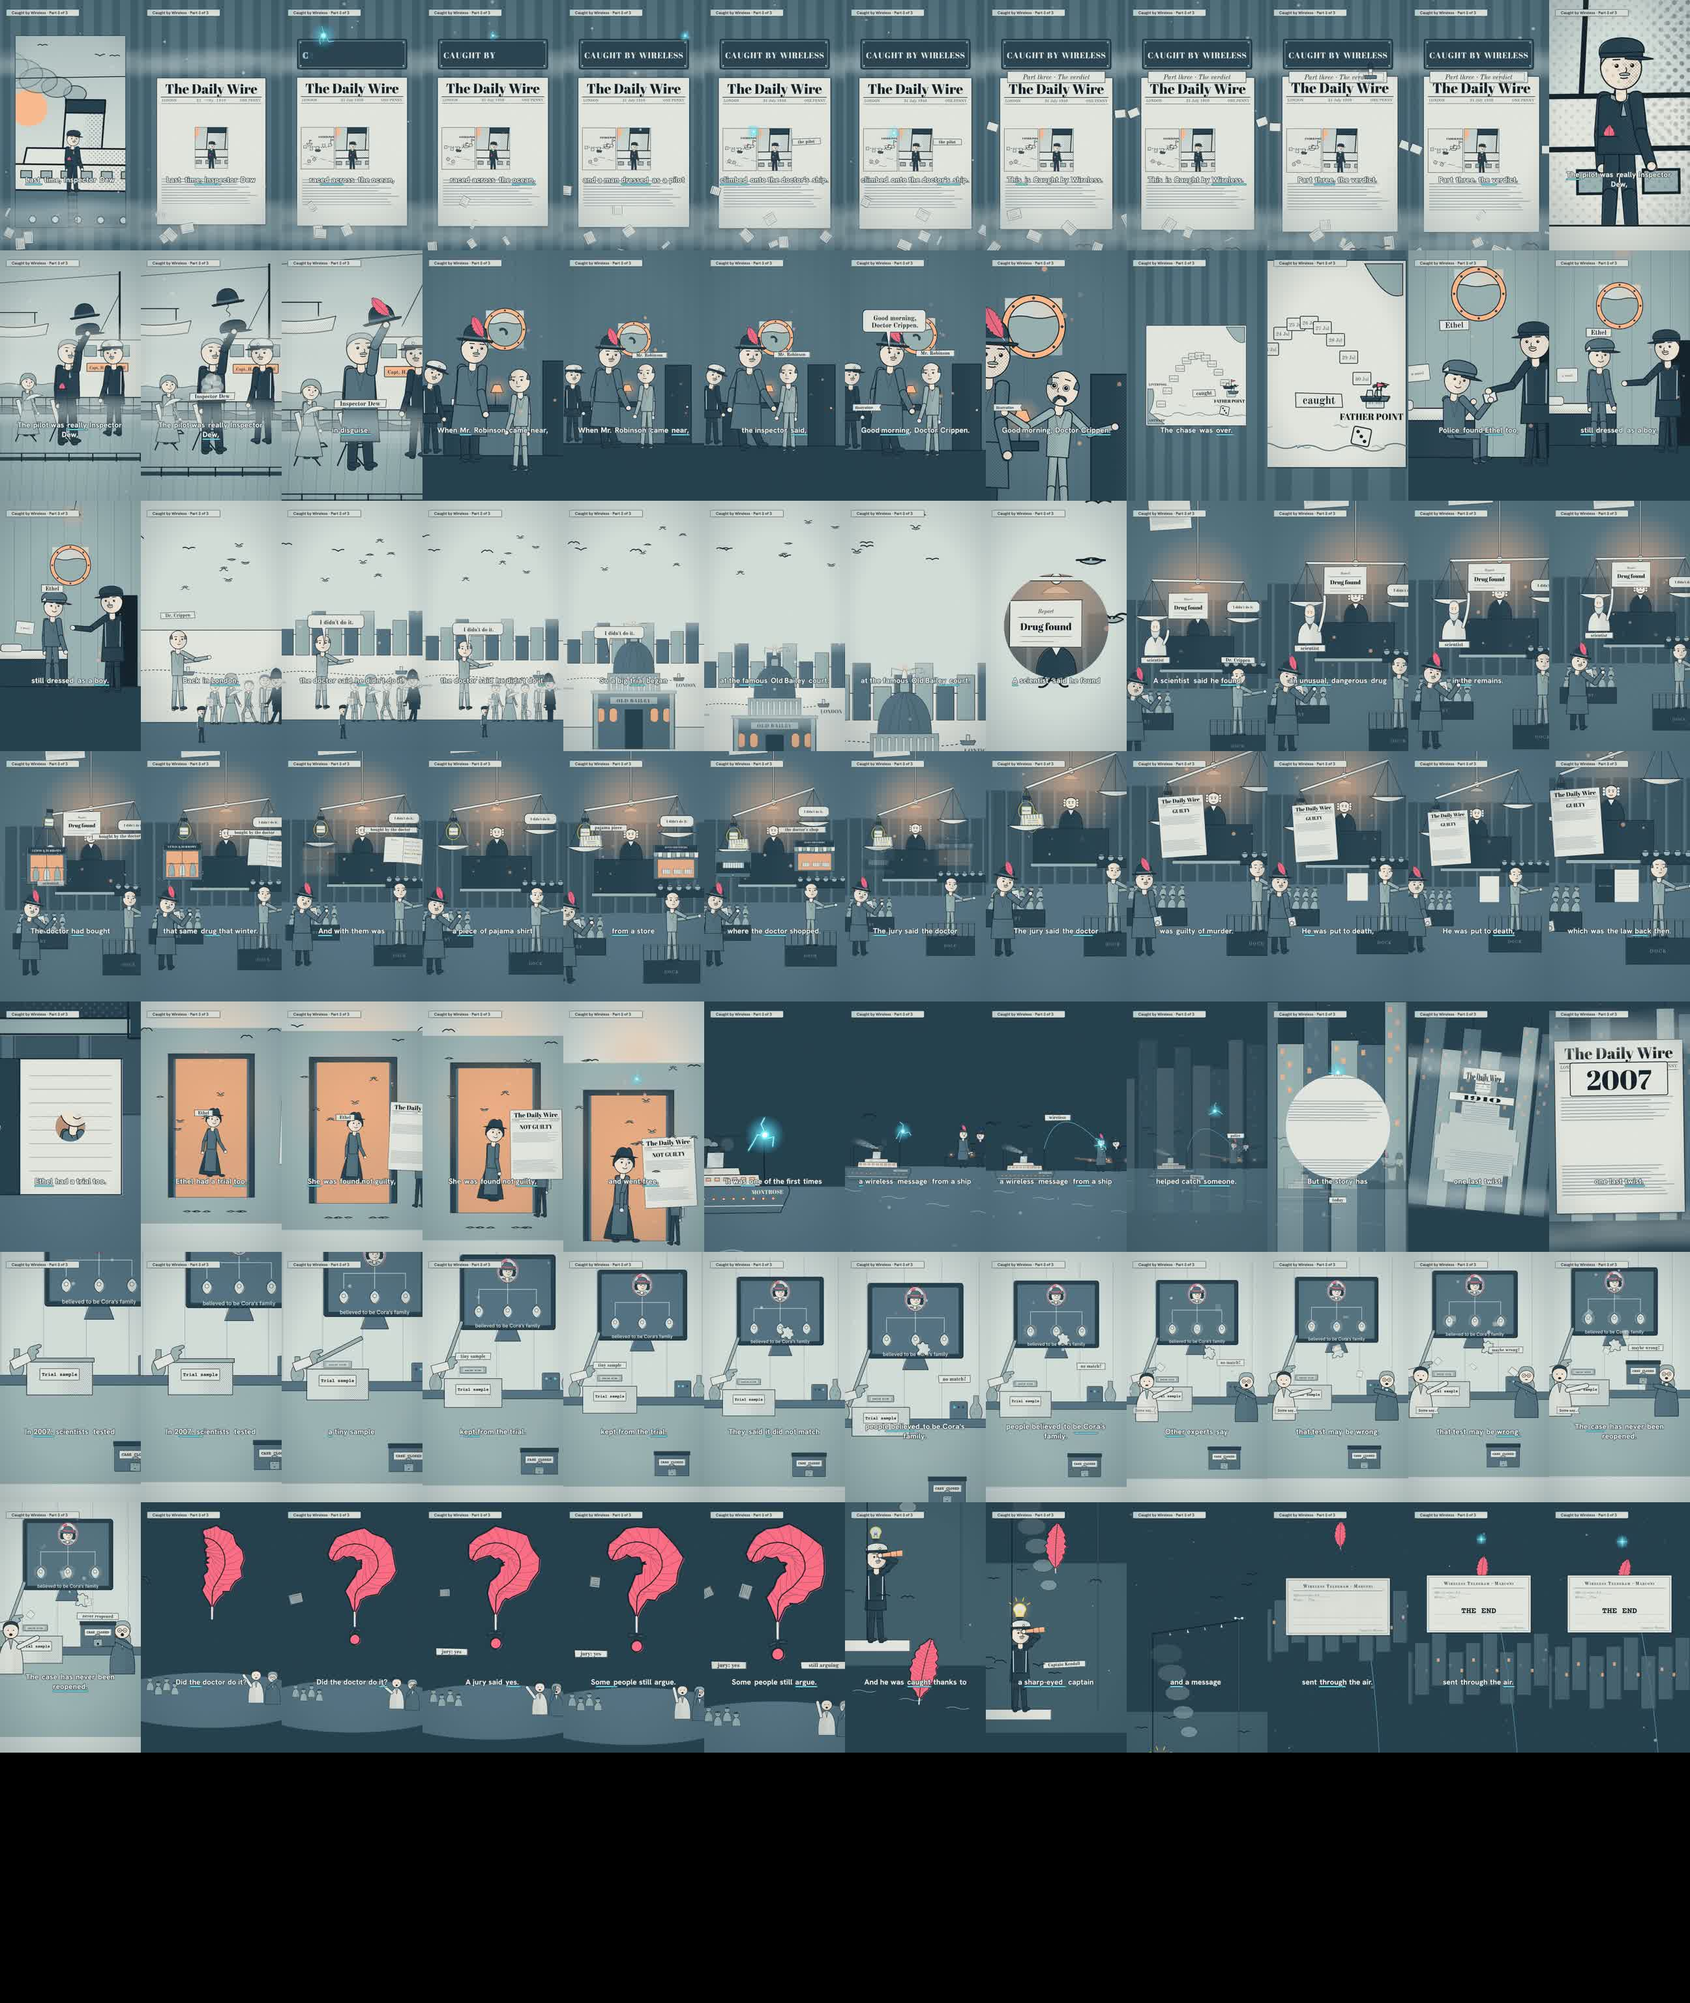
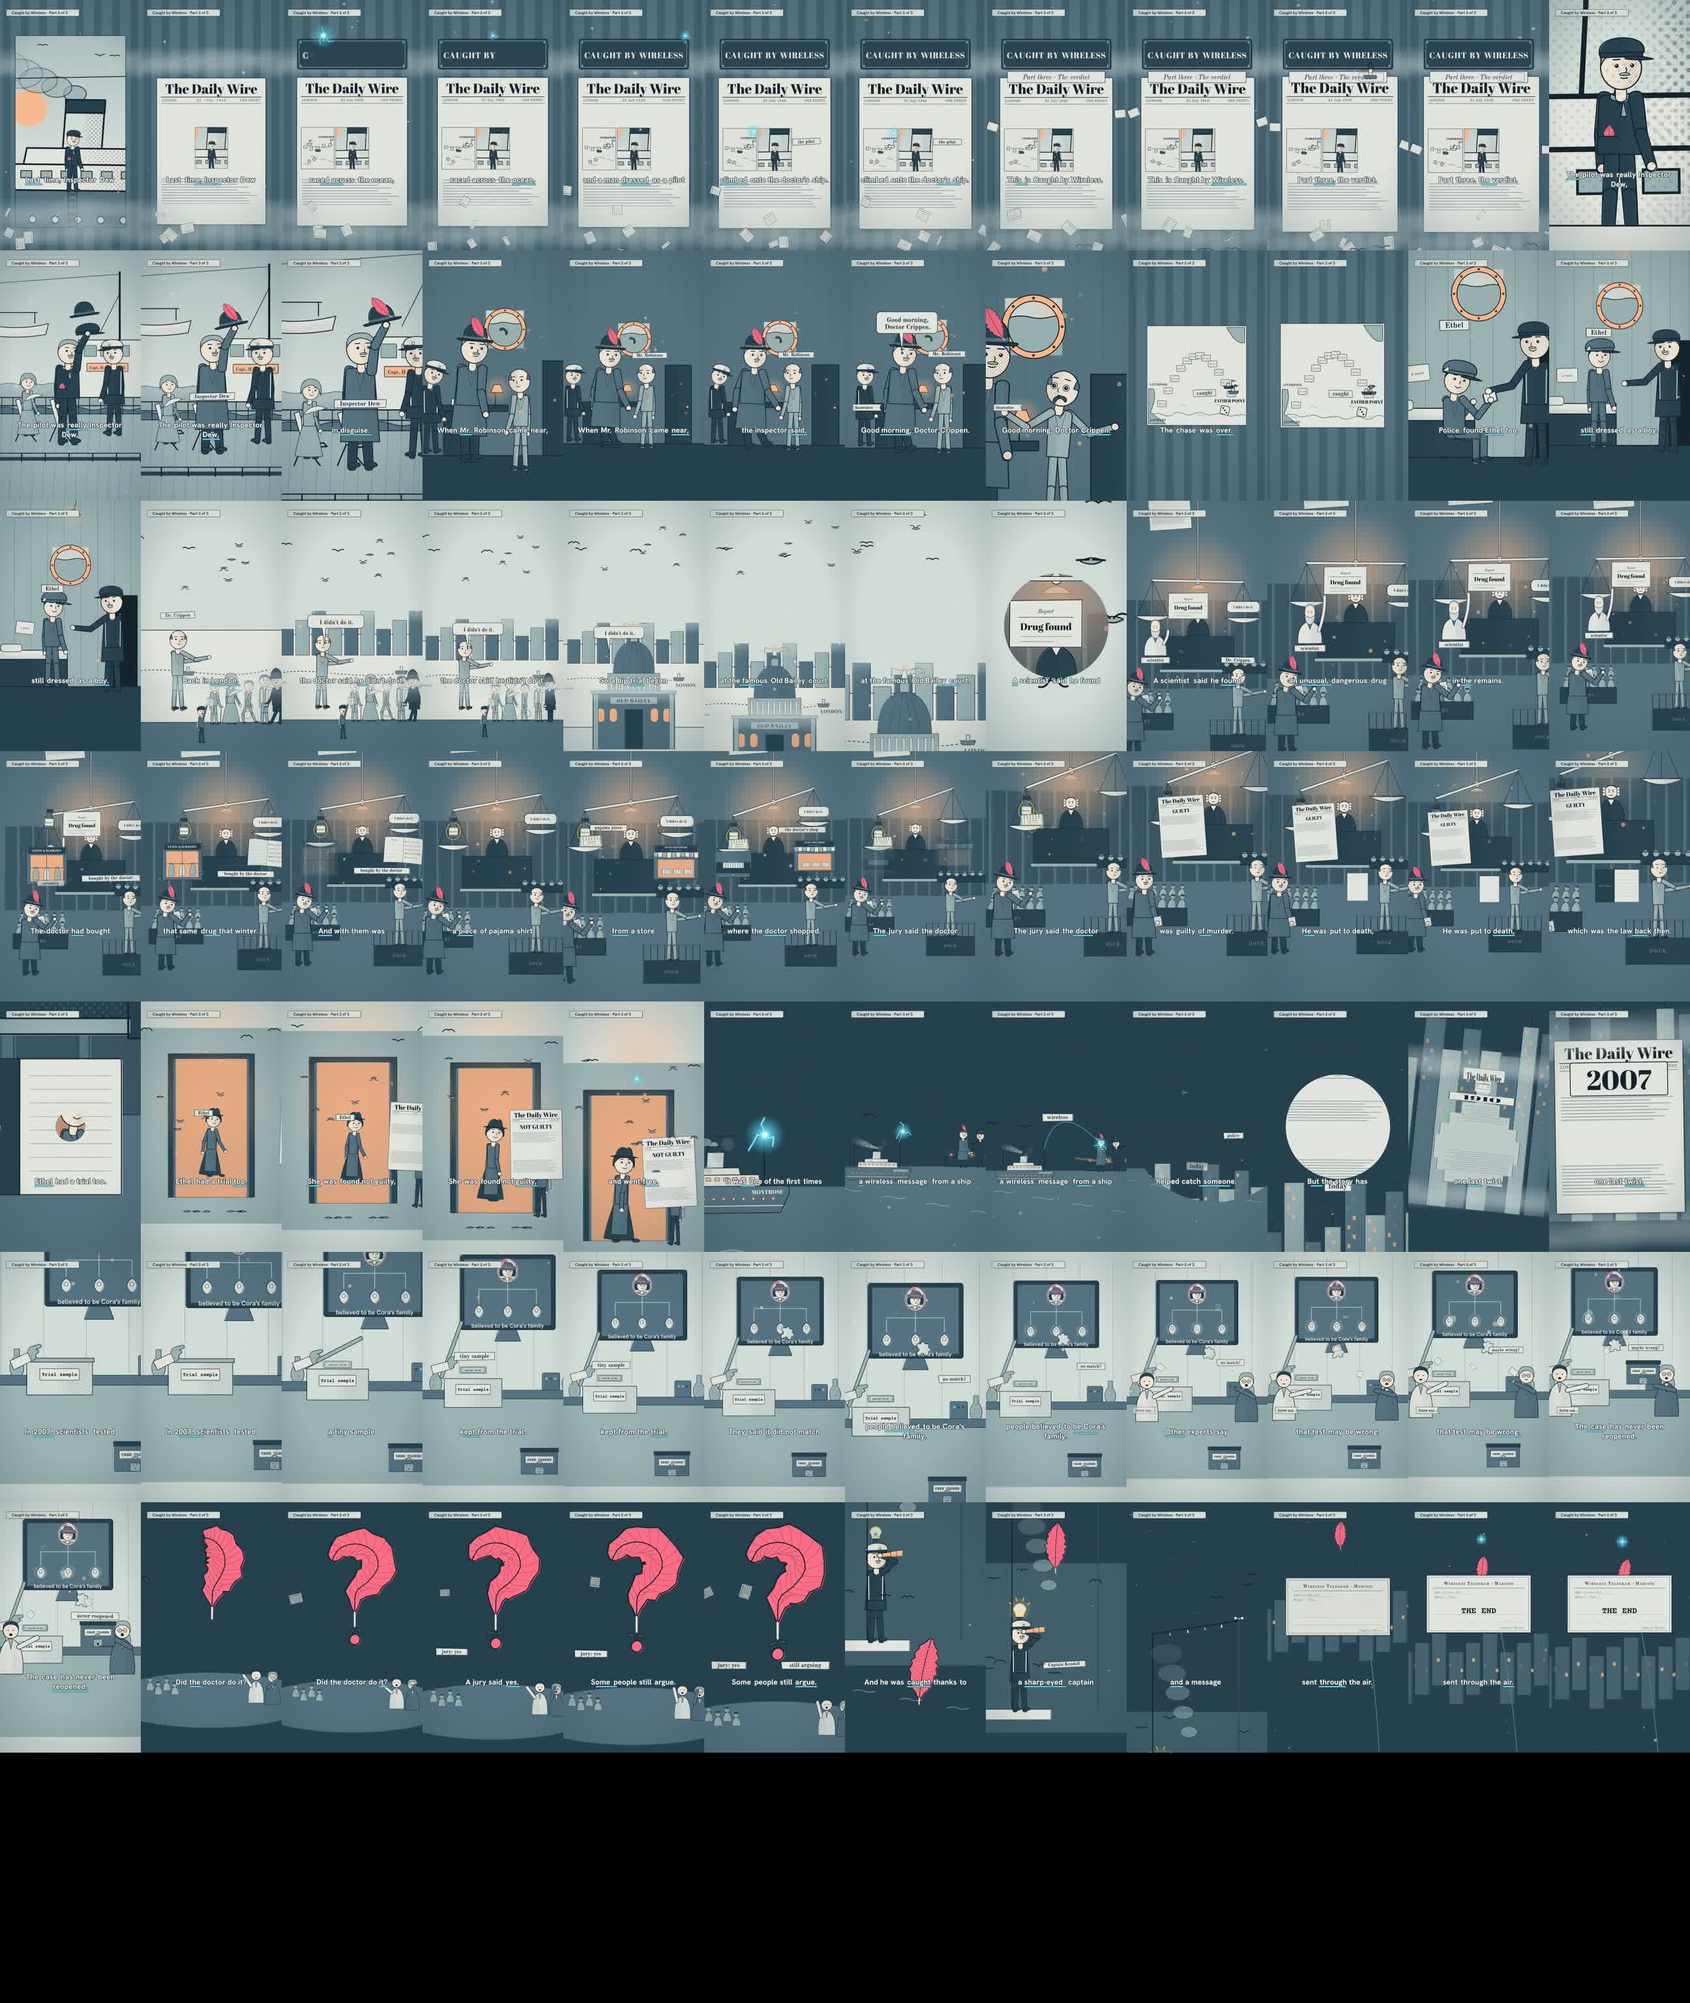
Wireless 3 v1.2 delivered (polish: Spark-whip reveal, iris to today, labels, framing; partial re-render, 2524 frames)

diff --git a/projects/wireless-3/film/src/p3/scenesA.tsx b/projects/wireless-3/film/src/p3/scenesA.tsx
@@ -185,7 +185,8 @@ export const Title: React.FC<S> = ({t, fr}) => {
 
 // ---------- 2. On deck: the pilot lifts his cap, the bowler pops up, the Feather springs into the band; Kendall nods ----------
 export const Deck: React.FC<S> = ({t, fr}) => {
-  const pop = pr(t, B.dew - 0.1, 0.45, back);
+  const pop = pr(t, B.dew - 0.1, 0.35, back);
+  const SWAP = B.dew + 0.42;                     // the Spark whips across him and the pea coat becomes Dew's own coat
   const keys: [number, Partial<{x: number; y: number; zoom: number}>][] = [
     [F(B.l2), {x: 560, y: 1000, zoom: 2.6}], [F(B.l2 + 0.9), {x: 540, y: 1020, zoom: 1.05}], [F(B.l3), {x: 470, y: 980, zoom: 1.35}],
   ];
@@ -199,26 +200,28 @@ export const Deck: React.FC<S> = ({t, fr}) => {
         <path d="M-400,880 Q100,800 600,860 T1500,840 V1100 H-400 Z" fill={T.mist} opacity={0.7} />
         <g transform="translate(120 820)"><Sh d="M-14,0 L-10,-110 H10 L14,0 Z" fill={T.newsprint} sw={2} /><path d={`M0,-110 L${Math.cos(t * 1.6) * 600},${-110 + Math.sin(t * 1.6) * 40}`} stroke={T.lamp} strokeWidth={14} opacity={0.35} /></g>
       </ParallaxLayer>
-      <ParallaxLayer depth={0.5}><Gulls t={t} n={4} y={200} /></ParallaxLayer>
+      <ParallaxLayer depth={0.5}><Gulls t={t} n={4} y={200} /><Fog fr={fr} y1={760} y2={980} /></ParallaxLayer>
       <g>
         <K.montroseDeck fr={fr} sky="dawn" />
         <g transform={`translate(${230 + Math.sin(t * 0.8) * 4} 1460)`}><K.passenger fr={fr} kind="parasol" h={430} /></g>
         <g transform="translate(860 1440)"><K.kendall fr={fr} pose={t > B.disguise - 0.2 ? 'nod' : 'stand'} h={640} facing={-1} /></g>
         <g transform="translate(520 1500)">
-          {t < B.disguise - 0.1
+          {t < SWAP
             ? <K.dewPilot fr={fr} pose="liftCap" capLift={pop} h={720} feather={pr(t, B.dew + 0.2, 0.4)} />
             : <K.dew fr={fr} pose="liftHat" h={740} feather={1} />}
-          {Math.abs(t - (B.disguise - 0.1)) < 0.3 && Array.from({length: 7}, (_, i) => {
-            const k = (t - (B.disguise - 0.4)) / 0.6, a = (i / 7) * Math.PI * 2;
-            return <circle key={i} cx={Math.cos(a) * 160 * k} cy={-420 + Math.sin(a) * 220 * k} r={50 * (1 - k)} fill={T.fog} opacity={0.8 * (1 - k)} />;
-          })}
+          {Math.abs(t - (SWAP)) < 0.14 && (() => {
+            const k = (t - (SWAP - 0.14)) / 0.28;            // 8-frame whip: the Spark streaks down across him
+            const x = lerp(-260, 260, k), y = lerp(-760, -40, k);
+            return <g><path d={`M${x - 220 * 0.7},${y - 300 * 0.7} L${x},${y}`} stroke={T.sparkHalo} strokeOpacity={0.5} strokeWidth={28} strokeLinecap="round" />
+              <path d={`M${x - 220 * 0.7},${y - 300 * 0.7} L${x},${y}`} stroke={T.spark} strokeWidth={10} strokeLinecap="round" />
+              <g transform={`translate(${x} ${y})`}><K.spark fr={fr} size={1.6} /></g></g>;
+          })()}
         </g>
         <Word t={t} at={B.dew} text="Inspector Dew" x={520} y={1150} s={36} />
       </g>
       <ParallaxLayer depth={1.4}><path d={`M-200,1640 H1400`} stroke={T.deep} strokeWidth={26} /><path d="M-200,1600 H1400" stroke={T.ink} strokeWidth={6} />
         {Array.from({length: 10}, (_, i) => <path key={i} d={`M${-150 + i * 170},1600 v60`} stroke={T.ink} strokeWidth={8} />)}</ParallaxLayer>
       <Motes t={t} n={10} seed="dk" col={T.newsprint} r={8} />
-      <Fog fr={fr} y1={760} y2={1300} />
     </Camera>
   );
 };
@@ -233,7 +236,7 @@ export const Cabin: React.FC<S> = ({t, fr}) => {
   const hop = pr(t, OFF, 0.3, inOut);
   const wide = pr(t, LAND + 0.1, 0.2);
   const keys: [number, Partial<{x: number; y: number; zoom: number}>][] = [
-    [F(B.l3), {x: 420, y: 1000, zoom: 1.35}], [F(B.near + 0.6), {x: 540, y: 980, zoom: 1.0}], [F(B.crippen + 0.6), {x: 520, y: 980, zoom: 1.12}],
+    [F(B.l3), {x: 420, y: 1000, zoom: 1.35}], [F(B.near + 0.6), {x: 540, y: 980, zoom: 1.0}], [F(B.crippen + 0.6), {x: 420, y: 980, zoom: 1.08}],
     [F(B.l4 - 0.4), {x: 600, y: 940, zoom: 1.35}], [F(B.l4), {x: 700, y: 840, zoom: 3.2}],
   ];
   return (
@@ -257,7 +260,7 @@ export const Ethel: React.FC<S> = ({t, fr}) => {
   const flag = pr(t, B.over + 0.6, 0.35, back);
   const stand = pr(t, B.boy - 0.4, 0.8);
   const keys: [number, Partial<{x: number; y: number; zoom: number}>][] = [
-    [F(B.l4), {x: 540, y: 900, zoom: 1.6}], [F(B.l4 + 0.5), {x: 540, y: 900, zoom: 1.0}], [F(B.ethel - 0.6), {x: 600, y: 900, zoom: 1.1}],
+    [F(B.l4), {x: 540, y: 900, zoom: 1.6}], [F(B.l4 + 0.5), {x: 540, y: 900, zoom: 1.0}], [F(B.ethel - 0.35), {x: 580, y: 900, zoom: 1.05}],
     [F(B.ethel - 0.1), {x: 540 + K.raceSquare(11, 760)[0] + 9, y: 900 + K.raceSquare(11, 760)[1] - 8, zoom: 8}], [F(B.ethel + 0.05), {x: 540, y: 1100, zoom: 1.6}], [F(B.l5), {x: 540, y: 1100, zoom: 1.15}],
   ];
   const inCabin = t >= B.ethel - 0.1;
@@ -395,7 +398,7 @@ export const CourtScene: React.FC<S> = ({t, fr}) => {
       <g transform={`translate(${lerp(-500, 230, drawer)} 830) scale(0.55)`} opacity={drawer * (1 - pr(t, B.l8 - 0.2, 0.4))}><Drawer open={pr(t, B.shopped, 0.5)} /></g>
       <Word t={t} at={B.l6 + 0.6} text="Dr. Crippen" x={830} y={960} s={28} out={B.drug} />
       <Word t={t} at={B.scientist + 0.2} text="scientist" x={230} y={960} s={34} out={B.bought + 0.4} />
-      <Word t={t} at={B.bought + 0.1} text="bought by the doctor" x={760} y={600} s={30} out={B.l7 + 0.2} />
+      <Word t={t} at={B.bought + 0.1} text="bought by the doctor" x={690} y={920} s={36} out={B.l7 + 0.2} />
       <Word t={t} at={B.pajama} text="pajama piece" x={380} y={560} s={30} out={B.shopped + 0.2} />
       <Word t={t} at={B.shopped} text="the doctor's shop" x={760} y={600} s={30} out={B.l8 - 0.2} />
       {/* the verdict: the Daily Wire headline flips GUILTY above the jury, the clerk's ledger closes */}

diff --git a/projects/wireless-3/film/src/p3/scenesB.tsx b/projects/wireless-3/film/src/p3/scenesB.tsx
@@ -57,10 +57,9 @@ export const FirstTime: React.FC<S> = ({t, fr}) => {
   const ax = lerp(MX, 880, hop), ay = lerp(MY, 960, hop) - Math.sin(hop * Math.PI) * 420;
   return (
     <Camera fr={fr} keys={keys} background={T.deep}>
-      <ParallaxLayer depth={0.4}><g opacity={today}><ModernSky t={t} on={today} /></g>
-        {today < 1 && <rect x={-800} y={-1600} width={2700} height={4000} fill={T.deep} opacity={1 - today} />}</ParallaxLayer>
+
       {/* night sea with a little Montrose and the quay */}
-      <g opacity={1 - today * 0.6}>
+      <g>
         <rect x={-600} y={1160} width={2300} height={1400} fill={T.slate} />
         {Array.from({length: 6}, (_, i) => <path key={i} d={`M${-400 + ((t * 30 + i * 300) % 1800)},${1220 + i * 50} q40,-16 80,0 t80,0`} stroke={T.mist} strokeWidth={4} fill="none" />)}
         <K.montrose fr={fr} x={300} y={1230} scale={0.45} lit />
@@ -75,9 +74,16 @@ export const FirstTime: React.FC<S> = ({t, fr}) => {
       <path d={`M${MX},${MY} Q550,${600} 880,960`} fill="none" stroke={T.spark} strokeWidth={4} strokeDasharray={`${hop * 1000} 1000`} opacity={0.7 * (1 - today * 0.5)} />
       <g transform={`translate(${today > 0 ? lerp(ax, 540, today) : ax} ${today > 0 ? lerp(ay, 300, today) : ay})`}><K.spark fr={fr} size={1.3 + today * 0.4} /></g>
       <Motes t={t} n={10} seed="ft" col={T.mist} r={8} y={1150} h={600} />
-      <Word t={t} at={B.wireless} text="wireless" x={550} y={760} s={36} out={B.catch + 0.6} />
-      <Word t={t} at={B.catch - 0.2} text="police" x={900} y={860} s={36} out={B.l11 - 0.4} />
-      <Word t={t} at={B.catch + 0.6} text="today" x={540} y={1250} s={32} />
+      {today > 0 && (() => {
+        const sx = lerp(ax, 540, today), sy = lerp(ay, 300, today);
+        return <g>
+          <defs><clipPath id="today-iris"><circle cx={sx} cy={sy} r={20 + 3200 * today * today} /></clipPath></defs>
+          <g clipPath="url(#today-iris)"><g transform="translate(540 960)"><ModernSky t={t} on={1} /></g></g>
+        </g>;
+      })()}
+      <Word t={t} at={B.wireless} text="wireless" x={550} y={760} s={44} out={B.catch + 0.6} />
+      <Word t={t} at={B.catch - 0.2} text="police" x={880} y={860} s={44} out={B.l11 - 0.4} />
+      <Word t={t} at={B.catch + 0.6} text="today" x={540} y={1150} s={58} />
     </Camera>
   );
 };
@@ -141,7 +147,7 @@ export const Lab: React.FC<S> = ({t, fr}) => {
       {t > B.match && t < B.experts + 0.5 && <Word t={t} at={B.match + 0.1} text="no match?" x={830} y={1130} s={36} out={B.experts + 0.4} />}
       {/* the two experts tug it (no one wins) */}
       <Word t={t} at={B.wrong - 0.2} text="maybe wrong?" x={800} y={1080} s={32} out={B.reopened + 0.3} />
-      <Word t={t} at={B.reopened + 0.1} text="never reopened" x={780} y={1180} s={30} out={B.l14} />
+      <Word t={t} at={B.reopened + 0.1} text="never reopened" x={760} y={1180} s={40} out={B.l14} />
       <g transform={`translate(${lerp(1400, 960, second)} 1600)`}><Expert t={t} kind="cardigan" arm={200 + tug * 8} mouth={Math.abs(Math.sin(t * 7))} facing={1} /></g>
       <g transform={`translate(${lerp(-300, 140, pr(t, B.experts - 0.2, 0.6, back))} 1600)`} opacity={pr(t, B.experts - 0.3, 0.3)}><Expert t={t} kind="lab" arm={-20 - tug * 8} mouth={Math.abs(Math.sin(t * 6 + 1))} /></g>
       {t > B.experts && Array.from({length: 5}, (_, i) => {
@@ -152,7 +158,7 @@ export const Lab: React.FC<S> = ({t, fr}) => {
       <Motes t={t} n={12} seed="lb" col={T.newsprint} r={8} y={300} h={1100} />
       {/* the closed case */}
       <g transform={`translate(780 ${lerp(1900, 1310, box)}) scale(0.7)`}><CaseBox t={t} yawn={pr(t, B.reopened + 0.3, 0.6) * (1 - pr(t, B.reopened + 1.2, 0.5))} /></g>
-      <Word t={t} at={B.sample} text="tiny sample" x={320} y={1170} s={30} out={B.match} />
+      <Word t={t} at={B.sample} text="tiny sample" x={330} y={1170} s={40} out={B.match} />
     </Camera>
   );
 };
@@ -176,7 +182,7 @@ export const Question: React.FC<S> = ({t, fr}) => {
       <ellipse cx={540} cy={1500} rx={760} ry={200} fill={T.slate} />
       <g transform="translate(200 1430)">{Array.from({length: 4}, (_, i) => <Juror key={i} x={-90 + i * 60} y={(i % 2) * 30} s={0.8} nod={nod * Math.max(0, Math.sin(t * 7 + i))} seed={'qj' + i} />)}
         <g opacity={win(t, B.yes, B.l15 - 0.2)}><Word t={t} at={B.yes} text="jury: yes" x={40} y={-360} s={38} /></g></g>
-      <Word t={t} at={B.argue} text="still arguing" x={860} y={1070} s={36} />
+      <Word t={t} at={B.argue} text="still arguing" x={740} y={1070} s={38} />
       <g transform="translate(880 1520) scale(0.62)"><Expert t={t} kind="lab" arm={-60 + Math.sin(t * 5) * 20} mouth={Math.abs(Math.sin(t * 8))} facing={-1} /></g>
       <g transform="translate(1000 1530) scale(0.6)"><Expert t={t} kind="cardigan" arm={240 + Math.sin(t * 5 + 2) * 20} mouth={Math.abs(Math.sin(t * 7 + 1))} facing={-1} /></g>
       <g transform={`translate(560 ${900 + Math.sin(t * 2) * 12})`}>
@@ -196,7 +202,7 @@ export const Rise: React.FC<S> = ({t, fr}) => {
   // world: tall column; the Feather rises from y 2400 to y -2600
   const k = pr(t, B.l15 - 0.2, B.end - B.l15 + 0.2, inOut);
   const STAR = -2900, fs = lerp(1.6, 0.7, k);
-  const fy = Math.max(lerp(2300, -2560, k), STAR + 300 * fs + 10);
+  const fy = Math.max(lerp(2300, -2560, k), STAR + 300 * fs - 30);   // the tip reaches the star
   const bulb = pr(t, B.captain + 0.2, 0.2);
   const gap = t > B.message - 0.1 && t < B.air + 0.6;
   const keys: [number, Partial<{x: number; y: number; zoom: number}>][] = [

diff --git a/projects/wireless-3/film/src/p3/props.tsx b/projects/wireless-3/film/src/p3/props.tsx
@@ -414,7 +414,7 @@ export const TreeScreen: React.FC<{t: number; glow: number; cameo?: React.ReactN
         <circle cy={-4} r={12} fill={T.skin} stroke={T.ink} strokeWidth={2} />
       </g>
     ))}
-    <Txt y={204} s={36} f={FONT.ui} w={600} fill={T.newsprint}>believed to be Cora&apos;s family</Txt>
+    <Txt y={206} s={40} f={FONT.ui} w={700} fill={T.newsprint}>believed to be Cora&apos;s family</Txt>
     <Sh d="M-60,220 h120 l30,80 h-180 z" fill={T.slate} sw={3} />
   </g>
 );

diff --git a/projects/wireless-3/REPORT.md b/projects/wireless-3/REPORT.md
@@ -1,6 +1,23 @@
 # Caught by Wireless 3: "The verdict": report (2026-11-08)
 
-## v1.1 (current; 04:21–04:45, after the orchestrator's continuity + accuracy judge)
+## v1.2 (current; 04:57–05:07, final polish from the orchestrator's series judge, 8/10)
+**Final:** `projects/wireless-3/renders/wireless-3_v1.2.mp4` (git-ignored; delivered in the session): 1080×1920, 30 fps,
+**84.13 s = 2524 frames**, **−14.2 LUFS, −1.8 dBTP**; motion_check on the final: median **20** (bar 18); only second 83
+flagged (the required end-card hold). Partial re-render only: frames 340–665, 1070–1170 and 1585–2523 spliced into the
+v1.1 master with the concat filter. The frame count is 2524 after the splice, and the seams are clean (YAVG step at each seam ≤ 0.9, the same as
+the neighbouring frames). `stills/sheet_1fps.jpg` and `hero_arrest.jpg` were replaced.
+Fixes:
+1. The pilot-to-Dew reveal is one solid figure. The bowler pops out of the lifted cap, and 8 frames later the Spark whips down across him while the pea coat becomes Dew's
+own coat. The fog band that made his legs look see-through now sits behind the figures.
+2. 56 s: today's city opens in a growing circle from the Spark. It is a push-through; nothing fades.
+3. 19 s: the cabin is reframed by 100 px, so Dew's face is clear.
+4. 21 s: the race-map push now starts 0.35 s before the hand-off; the map stays ≤ ~35 % of the frame until then.
+5. The Feather's tip reaches the star (+40 px).
+6. Labels are larger ("wireless" 44, "police" 44, "today" 58, "tiny sample" 40, "never reopened" 40, the screen label 40).
+   "bought by the doctor" is moved below the poisons book and in from the edge, and "still arguing" is moved in.
+
+---
+## v1.1 (04:45) — superseded
 **Final:** `projects/wireless-3/renders/wireless-3_v1.1.mp4` (git-ignored; delivered in the session). 1080×1920, 30 fps,
 **84.13 s = 2524 frames** (checked on the MP4 after every splice), last word 81.83 s + 2.3 s tail (the end card holds
 ~2.9 s). **−14.2 LUFS, −1.8 dBTP** (ebur128 on the MP4), LRA 1.8 LU. Voice over music under speech (1–4 kHz, voiced
